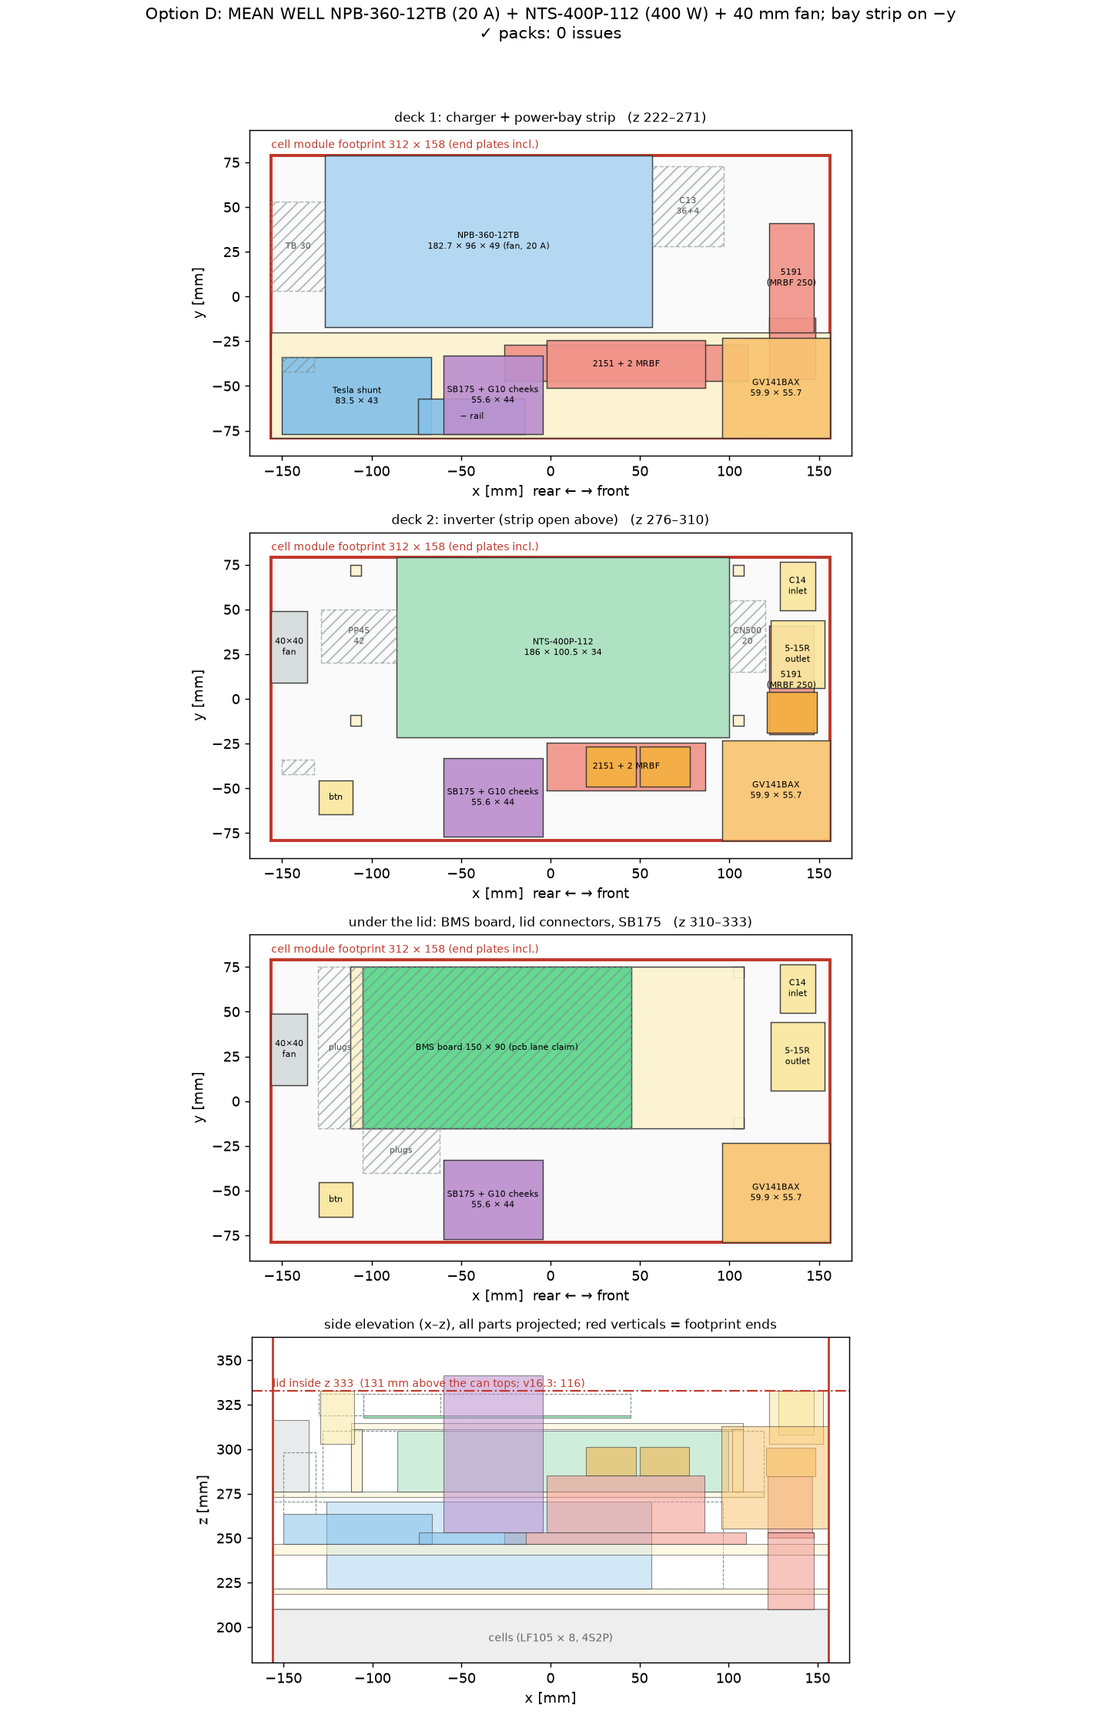
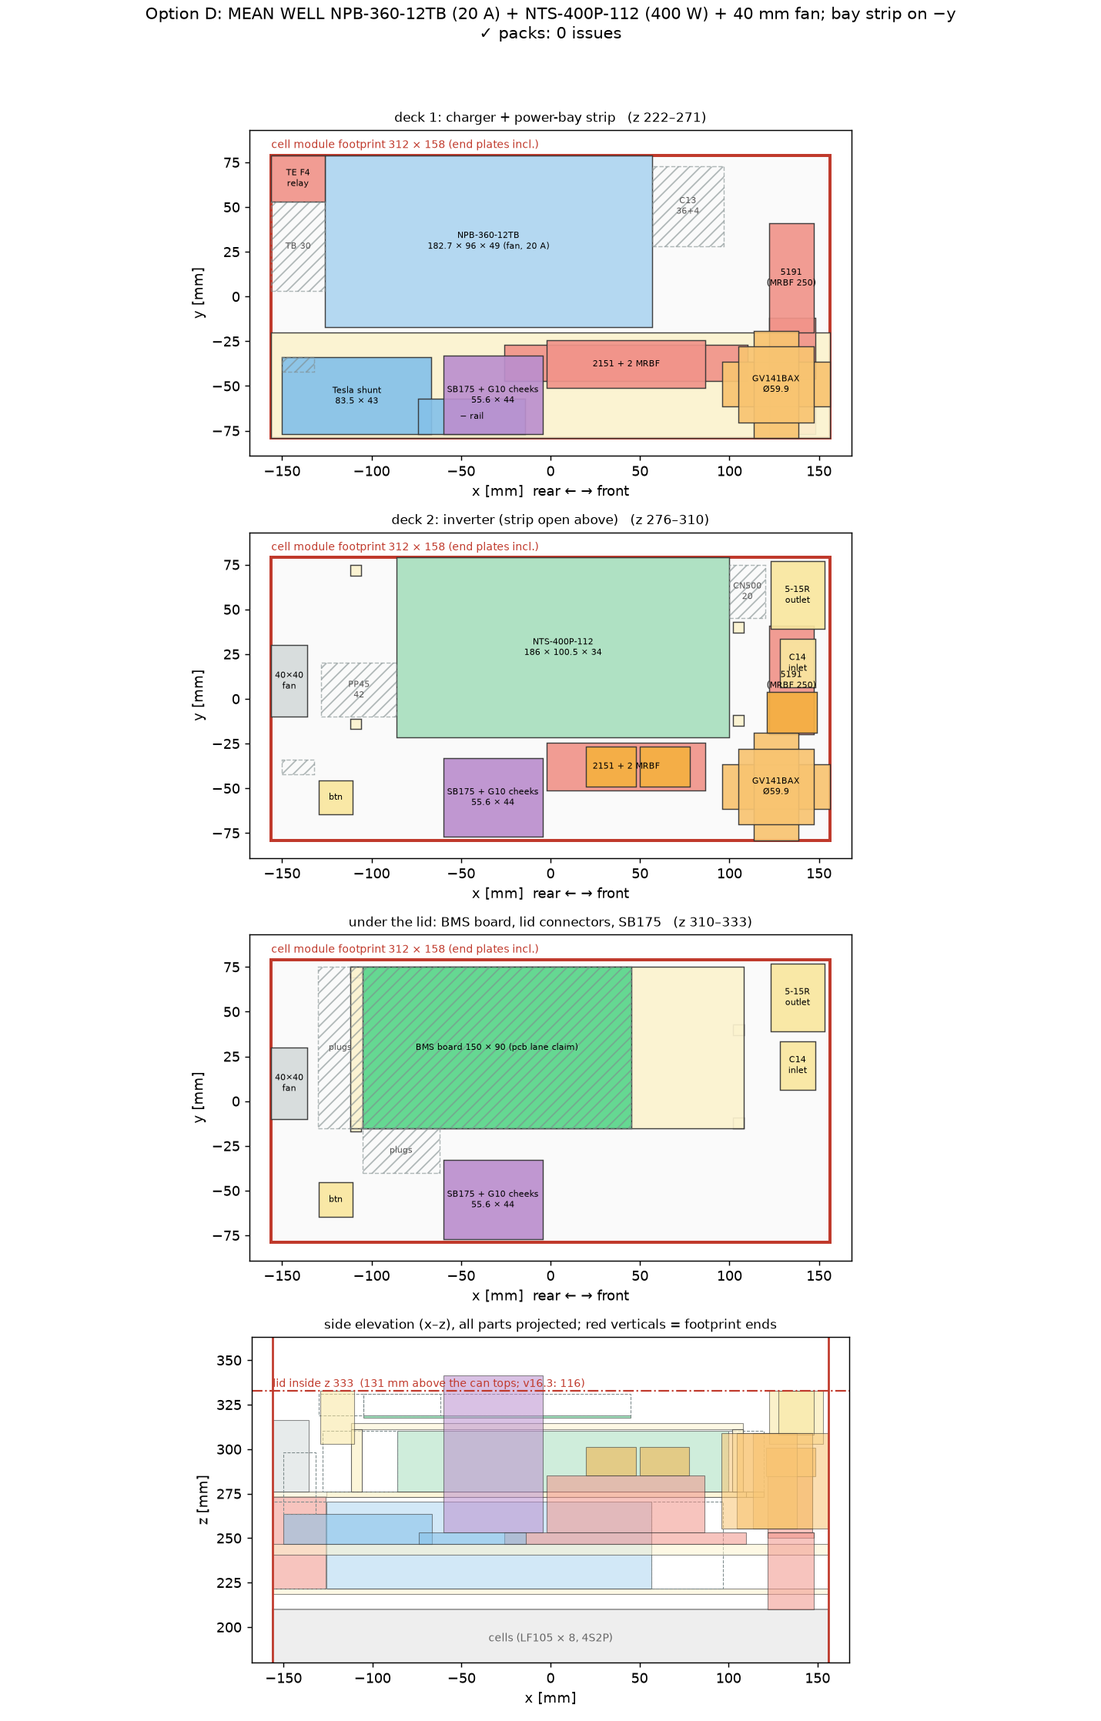
main-battery: option D cooling model (cooling_D.py), charger relay TE V23134-B1052-C642, GV14/NTS dims confirmed; packing re-checked 0 issues
Claude-Session: https://claude.ai/code/session_019xZm2LfCuiMwG9xRrujpys

diff --git a/cad/analysis/converter_packing.py b/cad/analysis/converter_packing.py
@@ -158,19 +158,25 @@ def opt_D(chg=("chg_npb360", 182.7, 96.0, 49.0, "NPB-360-12TB\n182.7 × 96 × 49
     p.append(B("keep_chg_ac_c13", -126 + cl, -86 + cl, FY - 51, FY - 6, Z_D1, Z_D1 + ch, "keep", "C13\n36+4"))
     # deck 2: G10 over the charger only (the strip stays open to the lid: fuse lift-out)
     z2 = Z_D1 + ch + 2.5 + G10
-    p.append(B("g10_deck2", -156, 120, -21.5, FY, z2 - G10, z2, "g10"))
+    p.append(B("g10_deck2", -156, 110, -21.5, 53.0, z2 - G10, z2, "g10"))          # notched at the rear +y corner for the relay
+    p.append(B("g10_deck2c", 110, 120, -17.0, 53.0, z2 - G10, z2, "g10"))          # and at the front -y corner for the GV14
+    p.append(B("g10_deck2b", -126, 120, 53.0, FY, z2 - G10, z2, "g10"))
+    # charger N.O. relay: TE V23134-B1052-C642 (Mini ISO F4, bracket), 25.9 x 29.9 x 51.9, next to the charger's TB (+)
+    p.append(B("relay_chg", -156, -126.1, 53.1, FY, Z_D1, Z_D1 + 51.9, "pos", "TE F4\nrelay"))
     # inverter flat, DC end at the rear (PP45 + MEAN WELL's 10 CFM fan 5 cm from the DC face), AC (CN500) at the front
     p.append(B("inv_nts400p", -86, 100, -21.5, FY, z2, z2 + 34, "inv", "NTS-400P-112\n186 × 100.5 × 34"))
-    p.append(B("keep_inv_pp45", -128, -86, 20, 50, z2, z2 + 34, "keep", "PP45\n42"))
-    p.append(B("fan_inv_4020", -156, -136, 9, 49, z2, z2 + 40, "fan", "40×40\nfan"))
-    p.append(B("keep_inv_cn500", 100, 120, 15, 55, z2, z2 + 34, "keep", "CN500\n20"))
+    # NTS-400P drawing (SPEC 2026-03-26 p.6): TB1 (PP45) near one long edge of the DC end, CN500 near the OTHER long edge
+    # of the AC end; turned end-for-end vs v16 (TB1 was +y), so TB1 faces the strip (-y) and CN500 is at +y.
+    p.append(B("keep_inv_pp45", -128, -86, -10, 20, z2, z2 + 34, "keep", "PP45\n42"))
+    p.append(B("fan_inv_4020", -156, -136, -10, 30, z2, z2 + 40, "fan", "40×40\nfan"))
+    p.append(B("keep_inv_cn500", 100, 120, 45, 75, z2, z2 + 34, "keep", "CN500\n20"))
     # separate BMS board, flat over the inverter on 6 mm standoffs, parts <= 10 mm
     # pcb lane space claim 2026-11-27 (spec/requests/pcb-bms-space-claim.md): 150 x 90, top <= 12 mm incl. mated plugs,
     # 25 mm right-angle plug room beyond -x, and beyond -y for x -105..-62. Carried by a G10 .125 bridge over the inverter
     # (no holes in the NTS-400P), the bridge on 4 posts standing on deck 2 beyond the inverter's ends.
     zr = z2 + 34 + 1.0
     p.append(B("g10_bms_bridge", -112, 108, -15, 75, zr, zr + G10, "g10", None))
-    for i, (x, y) in enumerate(((-109, -12), (-109, 72), (105, -12), (105, 72))):   # M3 standoffs at the bridge corners
+    for i, (x, y) in enumerate(((-109, -14), (-109, 72), (105, -12), (105, 40))):   # M3 standoffs at the bridge corners
         p.append(B(f"bms_post_{i}", x - 3, x + 3, y - 3, y + 3, z2, zr, "g10", None))
     zb = zr + G10 + 3.0
     p.append(B("bms_board", -105, 45, -15, 75, zb, zb + 1.6, "bms", "BMS board 150 × 90 (pcb lane claim)"))
@@ -180,12 +186,16 @@ def opt_D(chg=("chg_npb360", 182.7, 96.0, 49.0, "NPB-360-12TB\n182.7 × 96 × 49
     # power bay strip (y -79 .. -20)
     p += bay_strip(-20.0, zp1, 156, lid)
     # GV14 (body 59.9 x 55.7, flange 72.5) and the 5191 on the + riser in the front corner
-    p.append(B("ct_gv14", 96.1, 156, -79, -23.3, zp1 + 2, zp1 + 59.9, "ct", "GV141BAX\n59.9 × 55.7"))
+    # GV141BAX (Sensata GV14 datasheet, upright drawing): round body dia 59.9, 55.7 to the stud seat, flange 80.5 x 68.3
+    # holes at the (now top) end, turned diagonal so it stays inside the body's square. Inverted: studs down into the plane.
+    cx, cy, r = 126.0, -49.05, 29.95
+    for i, (a, b) in enumerate(((r, 12.4), (12.4, r), (21.2, 21.2))):
+        p.append(B(f"ct_gv14_{i}", cx - a, cx + a, cy - b, cy + b, zp1 + 2, zp1 + 55.7, "ct", "GV141BAX\nØ59.9" if i == 0 else None))
     p.append(B("pos_riser", 122, 148, -77, -46, Z_BB, zp1, "pos", None))          # + collector Z-tab (cells 7-8), as C1
     p.append(B("pos_inbar", 122, 148, -46, -12, zp1 - 3.175, zp1, "pos", None))    # riser flange -> 5191 tab (under the GV14)
     p.append(B("bs5191", 122, 147, -20, 40.9, zp1, zp1 + 31.5, "pos", "5191\n(MRBF 250)"))
     p.append(B("bs5191_fuse", 121, 148.8, -19, 4, zp1 + 31.5, zp1 + 47.8, "fuse", None))
-    p += lid_conns(lid, (138, 63), (138, 25), (-120, -55))
+    p += lid_conns(lid, (138, 20), (138, 58), (-120, -55))
     return dict(title=title or "Option D: MEAN WELL NPB-360-12TB (20 A) + NTS-400P-112 (400 W) + 40 mm fan; bay strip on −y",
                 parts=p, lid_in=lid,
                 levels=[("deck 1: charger + power-bay strip", Z_D1, Z_D1 + ch), ("deck 2: inverter (strip open above)", z2, z2 + 34),
@@ -193,8 +203,8 @@ def opt_D(chg=("chg_npb360", 182.7, 96.0, 49.0, "NPB-360-12TB\n182.7 × 96 × 49
                 allow=[("g10_", "g10_"), ("g10_bayplate", "shunt"), ("g10_bayplate", "rail_"), ("rail_neg", "shunt"), ("rail_neg", "sb175"),
                        ("rail_pos", "sb175"), ("rail_pos", "bs2151"), ("g10_deck1", "pos_riser"), ("g10_bayplate", "pos_riser"),
                        ("keep_chg", "chg_"), ("keep_inv", "inv_"), ("bms_board", "keep_bms"), ("bs2151_fuse", "bs2151"), ("bs5191_fuse", "bs5191"),
-                       ("keep_inv_pp45", "fan_"), ("rail_pos", "ct_"), ("g10_bayplate", "ct_"), ("pos_riser", "bs5191"), ("ct_", "bs5191"),
-                       ("sb175", "lid_"), ("g10_deck1", "keep_"), ("g10_deck2", "keep_inv"), ("bms_post", "g10_deck2"), ("bms_post", "g10_bms"), ("g10_bms_bridge", "keep_"), ("pos_inbar", "pos_riser"), ("pos_inbar", "bs5191"),
+                       ("keep_inv_pp45", "fan_"), ("rail_pos", "ct_"), ("g10_bayplate", "ct_"), ("pos_riser", "bs5191"), ("ct_", "bs5191"), ("ct_gv14", "ct_gv14"),
+                       ("sb175", "lid_"), ("g10_deck1", "keep_"), ("g10_deck2", "keep_inv"), ("bms_post", "g10_deck2"), ("bms_post", "g10_bms"), ("g10_bms_bridge", "keep_"), ("pos_inbar", "pos_riser"), ("relay_chg", "keep_chg_dc"), ("relay_chg", "g10_deck1"), ("pos_inbar", "bs5191"),
                        ("pos_inbar", "ct_"), ("pos_riser", "ct_"), ("rail_pos", "pos_inbar"), ("g10_bayplate", "pos_inbar"), ("g10_bayplate", "bs5191")])
 
 def opt_B():

diff --git a/cad/analysis/cooling_D.py b/cad/analysis/cooling_D.py
@@ -1,0 +1,83 @@
+"""Option D cooling check (2026-11-27): no pack fan; MEAN WELL's 40 mm fan at the rear wall blows into the box onto the
+inverter's DC end (its rated forced-air condition), the NPB-360 has its own internal fan.
+
+Network (pressures relative to ambient; p_b = box overpressure):
+  ambient -> rear-plate holes in front of the 40 mm fan -> fan -> box
+  box -> front plate holes + LED board / diffuser holes -> ambient
+  box -> the rest of the rear hole grid -> ambient        (the fan's own exhaust can leave next to it)
+Two bounds on the air that carries heat out:
+  mixed:       all fan flow leaves at the box air temperature  -> dT = P / (rho c q_fan + UA)
+  front-only:  only the share leaving through the front counts  -> dT = P / (rho c q_front + UA)   (v16-style pessimism)
+Same orifice method and constants as cooling_v16.py. Run: ~/.venvs/cad/bin/python cad/analysis/cooling_D.py
+"""
+import math
+
+RHO, CP = 1.2, 1005.0
+CD = 0.78                                   # short-tube orifice (cooling_v16)
+A_HOLE = math.pi * 4.8 ** 2 / 4 * 1e-6      # rear and front plate holes, dia 4.8
+A_AIR = math.pi * 6.0 ** 2 / 4 * 1e-6       # LED board + diffuser holes, dia 6
+# Sunon MF40201VX-1000U-G99, 12 V: 10.8 CFM free air, 0.29 inH2O (72 Pa) shut-off, 27.5 dBA, 1.11 W
+# (Digi-Key / distributor listings 2026-11-27; Sunon's own sheet not found -> UNCONFIRMED). Curve shape as cooling_v16.
+Q0, P0 = 10.8 * 0.0283168 / 60, 0.29 * 249.089
+def fan_dp(q):
+    return P0 * max(0.0, 1 - (q / Q0) ** 1.4)
+def R(n, a, K):                              # quadratic resistance of n parallel holes of area a
+    return K * RHO / 2 / (n * a) ** 2
+
+# ---- geometry (option D box, UNCONFIRMED until tower17): inside ~314 x 168 x 333
+N_REAR = 636            # v16: 703 holes over 186.8 inside -> 19 of 21 columns at 168 inside
+N_FAN = 21              # rear holes inside the 40 mm fan circle (pitch 7.78)
+N_FRONT = 223           # v16: 244 open front holes on a 175-wide LED board -> scaled to a ~160-wide board
+
+R_fan_in = R(N_FAN, A_HOLE, 1 / CD ** 2)
+R_front = R(N_FRONT, A_HOLE, 1 / CD ** 2) + R(N_FRONT, A_AIR, 1 / CD ** 2) + 1.5 * RHO / 2 / (8e-3 * 0.160) ** 2   # + the 8 mm gap behind the board
+R_rear = R(N_REAR - N_FAN, A_HOLE, 1 / CD ** 2)
+
+def solve(rear_open=True):
+    lo, hi = 0.0, P0
+    for _ in range(200):
+        pb = (lo + hi) / 2
+        q_out = math.sqrt(pb / R_front) + (math.sqrt(pb / R_rear) if rear_open else 0.0)
+        # fan must supply q_out against pb + its inlet loss
+        if fan_dp(q_out) - R_fan_in * q_out ** 2 > pb:
+            lo = pb
+        else:
+            hi = pb
+    qf = math.sqrt(pb / R_front); qr = math.sqrt(pb / R_rear) if rear_open else 0.0
+    return pb, qf + qr, qf, qr
+
+# ---- heat, UPS case (inverting at 400 W while charging at 20 A)
+HEAT = {
+    "NTS-400P-112, 400 W out, eta 89 % (-112 column, NTS-400P-SPEC 2026-03-26; v16 used 91 %, the -212 value)": 400 * (1 / 0.89 - 1),
+    "NPB-360-12TB, 20 A x 14.2 V, eta 88.5 % (TB, NPB-360-SPEC 2026-07-06)": 20 * 14.2 * (1 / 0.885 - 1),
+    "GV141BAX coil hold 2.8 W": 2.8,
+    "BMS board (estimate)": 2.0,
+    "Tesla shunt module (estimate)": 0.25,
+    "40 mm fan 1.11 W": 1.11,
+    "Charger relay coil (estimate, TBD part)": 1.5,
+    "Power path at 40 A (cooling_v16 scaling)": 40 ** 2 * 400e-6,
+}
+P = sum(HEAT.values())
+U = 1 / (1 / 9.5 + 1 / 7.0)                                   # W/m2K (v14 section 11)
+A_ENC = 2 * (0.322 * 0.174 + 0.322 * 0.345 + 0.174 * 0.345)   # outer box ~322 x 174 x 345 mm
+UA = U * A_ENC
+
+if __name__ == "__main__":
+    print(f"Heat P = {P:.1f} W (UPS case); enclosure {A_ENC:.3f} m2, UA {UA:.2f} W/K; sealed box dT = {P / UA:.1f} K")
+    for k, v in HEAT.items():
+        print(f"  {v:6.2f} W  {k}")
+    print(f"Inverter alone at 300 W: {300 * (1 / 0.89 - 1):.1f} W loss -> P = {P - 400 * (1 / 0.89 - 1) + 300 * (1 / 0.89 - 1):.1f} W")
+    for name, ro in (("full rear grid (as v16, the look Chris likes)", True), ("rear holes only in front of the fan", False)):
+        pb, q, qf, qr = solve(ro)
+        print(f"\n{name}: box +{pb:.2f} Pa; fan {q * 3600:.1f} m3/h = {q / Q0 * 100:.0f} % of free air "
+              f"({q * 60 / 0.0283168:.1f} CFM vs MEAN WELL's 10 CFM condition); out front {qf * 3600:.1f}, out rear {qr * 3600:.1f} m3/h")
+        print(f"  dT mixed {P / (RHO * CP * q + UA):.1f} K | front-only {P / (RHO * CP * qf + UA):.1f} K")
+        for p_ in (P - 400 * (1 / 0.89 - 1) + 300 * (1 / 0.89 - 1), P - HEAT[list(HEAT)[1]] + 10 * 14.2 * (1 / 0.885 - 1)):
+            pass
+    pb, q, qf, qr = solve(True)
+    P300 = P - 400 * (1 / 0.89 - 1) + 300 * (1 / 0.89 - 1)
+    P_cap = P - HEAT[list(HEAT)[1]] + 10 * 14.2 * (1 / 0.885 - 1)
+    print(f"\nfull grid, inverter 300 W: dT mixed {P300 / (RHO * CP * q + UA):.1f} | front-only {P300 / (RHO * CP * qf + UA):.1f} K")
+    print(f"full grid, 400 W + charge capped at 10 A: dT mixed {P_cap / (RHO * CP * q + UA):.1f} | front-only {P_cap / (RHO * CP * qf + UA):.1f} K")
+    print(f"charging only (20 A, inverter off): dT mixed {(P - HEAT[list(HEAT)[0]]) / (RHO * CP * q + UA):.1f} | front-only {(P - HEAT[list(HEAT)[0]]) / (RHO * CP * qf + UA):.1f} K")
+    print(f"inverting only (400 W, charger off): dT mixed {(P - HEAT[list(HEAT)[1]] - 1.5) / (RHO * CP * q + UA):.1f} | front-only {(P - HEAT[list(HEAT)[1]] - 1.5) / (RHO * CP * qf + UA):.1f} K")

diff --git a/docs/converters.md b/docs/converters.md
@@ -134,25 +134,59 @@ So the strip is **≥ 59 mm**, which leaves **≤ 96 mm of width for the convert
 - **Branch fuses (R9):** inverter input at 400 W / 11 V / 0.89 ≈ 41 A → **MRBF 50 A kept**. Charger 20 A → **MRBF 30 A kept**.
 - **Undervoltage ladder:** NTS-400P cuts out at 10.0 ± 0.3 V (2.5 V/cell) and alarms at 11 V. The ladder (2.90 firmware → 2.80 BQ UV → 2.75 inverter) stays enforced by firmware and the BQ, as today. The inverter is unchanged.
 - **Standby:** unchanged, since the inverter is the same; the NPB-360 leaks < 1 mA from the battery. **13.8 days ON-idle** as today.
-- **Heat, UPS case** (inverting and charging at once):
+- **Heat, UPS case** (inverting at 400 W while charging at 20 A), from `cad/analysis/cooling_D.py`:
 
   | Source | Loss |
   |---|---|
-  | Inverter at 400 W (η 89 %) | 49 W |
-  | NPB-360 at 20 A × 14.2 V (η 88.5 %) | 37 W |
-  | GV14 coil | 2.8 W |
-  | BMS board | 2 W |
-  | **Total** | **≈ 91 W** (77 W today) |
+  | Inverter at 400 W (η **89 %**, the -112 column; cooling_v16 used 91 %, the -212 value) | 49.4 W |
+  | NPB-360 at 20 A × 14.2 V (η 88.5 %) | 36.9 W |
+  | GV14 coil, BMS, shunt, 40 mm fan, charger-relay coil, power path | 8.3 W |
+  | **Total** | **94.6 W** (77 W in v16) |
 
-  At 300 W inverter output the total is ≈ 79 W.
-- **Air path:**
-  - MEAN WELL's 10 CFM fan blows rear → front along the inverter, which **meets the inverter's rated condition**: 100 % load to 40 ℃.
-  - The NPB-360's own fan (switched on at 50 ℃ internal) cools the charger.
-  - ⚠ **Box air rise with only the converter fans:** about 10 K if both fans move air through the box (≈ 27 m³/h), up to about 24 K if only the 40 mm fan does (≈ 11 m³/h effective). The NPB-360 fan's flow is not published ⚠.
-  - Re-run `cooling_v16.py` in the CAD phase. If the rise is above 15 K, either:
-    - cap the charge current at 10 A while the inverter runs above 300 W (firmware, no parts); or
-    - add a second 40 mm fan at the rear wall over the charger's DC end (space exists at x −156…−136, y −17…+5).
+- **Fan (2026-11-27 model).** The Sunon MF40201VX-1000U-G99 is 10.8 CFM free air and 72 Pa shut-off ⚠ (distributor data; Sunon's own sheet not found). MEAN WELL's drawing shows a "10 CFM FAN" blowing **into** the DC end from 5 cm away, so intake is the right direction.
+
+  | Fan inlet in the rear plate | Fan flow | Box air rise, UPS case (mixed / front-only bound) |
+  |---|---|---|
+  | 21 standard Ø4.8 grid holes (as drawn) | **5.4 CFM** ✗ half of MEAN WELL's condition | 19.3 / 44.2 K |
+  | **Same 21 positions at Ø6.5** (grid look kept, no part) | 7.7 CFM | 15.2 / 41.6 K |
+  | Ø38 cutout + 40 mm wire guard (+1 part) | 8.4 CFM | 14.3 / 40.9 K |
+  | Ø38 cutout, rear grid blanked behind except the fan (+1 sheet) | 7.8 CFM | 15.1 / 15.1 K |
+  | Two 40 mm fans + blanking sheet | 2 × 6.5 CFM | 10.2 / 10.2 K (no room for a 2nd fan at the rear without a re-layout) |
+
+  - "Mixed" assumes all the fan's air leaves at box temperature.
+  - "Front-only" counts only the air that leaves through the front. With the full rear grid, most of the fan's air leaks back out of the rear holes beside it, which is the same short circuit as v16.
+- **Single loads** (Ø6.5 fan holes, mixed): charging only ≈ 7 K; inverting at 400 W only ≈ 9 K. **Only the UPS case (both at full power) is marginal.**
+- **Decision needed:**
+  - **(a) No part (recommended):** Ø6.5 holes in front of the fan, plus a firmware thermostat. The NPB-360 can't be throttled, only switched, so above a set box-air temperature (e.g. 45 ℃) while inverting the BMS opens the charger relay, and closes it again when the air cools.
+  - **(b)** Blanking sheet behind the rear grid (cooling.md option B): front-only = mixed = 15 K, +1 SCS part.
+  - **(c)** Re-layout for a second fan.
+
+  The inverter bench test (owner-req §7) checks whichever is picked.
 - **The NF-A14 pack fan is no longer needed for the converters,** and it doesn't fit under the new rule: 140 mm is taller than the deck.
+
+## 4a. Charger relay (D39 follow-up, 2026-11-27)
+| Candidate | Contacts at 14 V | Coil | Mounting | Verdict |
+|---|---|---|---|---|
+| **TE V23134-B1052-C642** (Power Relay F4, Mini ISO, 1 form A, **bracket**; TE 3-1393303-4) | 40 A continuous at 85 ℃ (60 A at 23 ℃); make 120 A; **break 60 A**; 2 × 10⁵ ops at 40 A 14 VDC | 12 V, 90 Ω, **1.6 W** (2.4 W at 14.6 V), operate 7.2 V | Bracket, one screw; 6.3 mm QC tabs; 25.9 × 29.9 × 51.9 mm, 35 g | **✓ picked.** Automotive part rated for this exact voltage. CAD 21.21, 170 in stock (Newark via [Octopart](https://octopart.com/search?q=V23134-B1052-C642), 2026-11-27) |
+| TE T9AP1D52-12 (T9A, flanged, QC) | NO 20 A at 28 VDC resistive | 12 V 1 W; **max coil 110 % = 13.2 V** < 14.6 V pack | flange | ✗ coil over-voltage at a full pack; 20 A is the bare limit |
+| Panasonic CB1 and other PCB automotive relays | 40 A | — | PCB | ✗ would put 20 A through the BMS board |
+| Small DC contactor (Gigavac, TE EV) | ≥ 100 A | 1.7–8 W | studs | ✗ oversized, costlier |
+
+**Placement.** The relay sits in deck 1's rear +y corner (x −156…−126, y 53…79) next to the charger's + terminal, with deck 2 notched above it. Re-checked: 0 issues.
+
+**Rules.**
+- The relay closes only after the GV14 is closed and AC is present.
+- A flyback diode across the coil goes on the BMS board.
+- The QC terminals are + potential: keep ≥ 10 mm to the charger's − terminal, or boot them ⚠ (CAD).
+
+## 4b. Dimensions confirmed this pass (2026-11-27)
+| Part | Before | Now | Source |
+|---|---|---|---|
+| GV141BAX | 59.9 × 55.7 box, flange 72.5 ⚠ | **Round body Ø59.9; 55.7 base to stud seat; 72.5 overall with studs; flange 80.5 long, holes 68.3 apart (M5/#10); stud pitch 26.7 (M8 × 1.25, 10 N·m max); 0.44 kg.** The flange turns diagonal in the inverted mount so it stays inside the Ø59.9 square | Sensata GV14 Series datasheet, upright dimensions (RS copy) ✓ |
+| NTS-400P TB1 / CN500 | TB1 at +y (v16); CN500 position unknown | TB1 near one long edge of the DC end; **CN500 near the opposite long edge of the AC end**; the "10 CFM fan" is drawn blowing into the DC end, 5 cm away. Turned end-for-end in option D, so TB1 faces the strip (−y) and CN500 is at +y, beside the lid outlet | NTS-400P-SPEC 2026-03-26 p.6 ✓ |
+| Blue Sea 5191 | 60.9 | 61.9 long (Eaton CF bar drawing, v16 note); 1 mm, packing unaffected | v16-decisions notes ✓ |
+| SB175 busbar contact depth (89.8 below the mating face) | ⚠ | **Still ⚠.** The SB175 datasheet points to a separate "busbar contact drawing on website", which Anderson's site search did not return. The datasheet confirms 180BBS: 1/4-20 stud, lock nut 110G56, **200 A wire-to-busbar** (≥ 175 ✓) | Anderson SB175 datasheet (RS copy) |
+| NPB-360 C14 position | ⚠ | Inlet on the right half of the input face (viewed from outside), I/O switch on the left; no dimensions on MEAN WELL's drawing ⚠ | NPB-360-SPEC 2026-07-06 p.5 |
 
 ## 5. Path taken (this session)
 1. **The rule.** The footprint is fixed (312 × 158) and height is free. So the question became which converters, packed with the bay, fit that plan.
@@ -222,9 +256,9 @@ So the strip is **≥ 59 mm**, which leaves **≤ 96 mm of width for the convert
 
 ## 10. Open items
 - Chris: Q1–Q4 (§6).
-- ⚠ NPB-360 fan flow and direction; box air rise without the NF-A14 (re-run `cooling_v16.py`).
+- Chris: cooling (a) firmware thermostat + Ø6.5 fan holes / (b) blanking sheet / (c) second fan (§4). ⚠ NPB-360 internal fan flow and direction unpublished.
 - ⚠ BMS board size and connector edge (pcb lane, scope confirmed in owner-requirements §5).
-- ⚠ Charger relay: catalog part, chassis-mounted (not on the PCB), ≥ 20 A DC continuous, rated for closing onto the NPB-360 output capacitors; firmware closes it only after the GV14 is closed.
+- ✓ Charger relay: TE V23134-B1052-C642 (§4a).
 - ⚠ Inside width: pack copper on the strip at y −77 needs 7 mm to the wall (inside ≥ 168) or rails moved 5 mm inboard.
-- ⚠ True outlines: GV14, 5191, SB175, NTS CN500/TB1 positions, NPB-360 C14 position.
+- ✓ GV14 and NTS connector positions (§4b). ⚠ SB175 busbar-contact depth; NPB-360 C14 exact position.
 - After the pick: `tower17.py` + bay module, interference/clearance/assembly checks, fast renders, BOM and SCS total.

diff --git a/spec/interface.md b/spec/interface.md
@@ -11,16 +11,16 @@ Single source of truth for numbers that more than one lane uses. Only `main-batt
 | DC out | SB175 on the lid, **175 A** continuous; hardware 500 A / 30 s, firmware-limited to EVE rev E Tables 12–13 | D37 |
 | Main fuse | MRBF 250 A in Blue Sea 5191 | power-train.md |
 | Branch fuses | MRBF on Blue Sea 2151: inverter **50 A**, charger **30 A** | converters.md §4 |
-| Contactor | Gigavac GV141BAX (GV14), coil 12 V, 3.9 A pick-up ⚠, 0.23 A hold (2.8 W) | contactor-mounting.md |
+| Contactor | Gigavac GV141BAX (GV14): round body Ø59.9, 55.7 to the stud seat, M8 studs 26.7 apart; coil 12 V, 3.9 A pick-up ⚠, 0.23 A hold (2.8 W) | Sensata GV14 datasheet; converters.md §4b |
 | Shunt | Tesla 1016792-00-C, low side; board ground at node A | tesla-shunt.md |
 
 ## 2. Converters (D39, 2026-11-27)
 | Item | Value | Ref |
 |---|---|---|
 | Charger | MEAN WELL **NPB-360-12TB**: 20 A, CV set to 14.2 V by VR, 2-stage by DIP. **No remote, no CAN** | converters.md |
-| Charger stop | **Normally-open DC relay in the charger + lead**, coil driven by the BMS; closed only after the GV14 is closed. Part ⚠ TBD (catalog, chassis-mounted, ≥ 20 A DC, rated for closing onto the charger's output capacitors) | D39 |
+| Charger stop | **TE V23134-B1052-C642** N.O. relay (Mini ISO F4, bracket, 12 V 90 Ω coil, 1.6–2.4 W, operate 7.2 V) in the charger + lead, next to the charger TB. BMS drives the coil (low side + flyback diode); closes only after the GV14 is closed and AC is present; opens on cold (< 2 ℃), full, fault, or box air over the thermostat limit (cooling decision pending) | converters.md §4a |
 | Inverter | MEAN WELL **NTS-400P-112**: 400 W, 120 V 60 Hz, power-saving DIP SW4 on; remote off = dry contact on CN301 (relay or PhotoMOS) | NTS-400P-SPEC 2026-03-26 |
-| Inverter fan | 40 × 40 × 20, 10 CFM, on the inverter's own CN100 (not a BMS output) | cooling.md, converters.md |
+| Inverter fan | Sunon MF40201VX-1000U-G99, 40 × 40 × 20, 10.8 CFM, intake at the rear wall 5 cm from the DC end, on the inverter's own CN100 (not a BMS output) | converters.md §4 |
 | Pack fan | **none** (NF-A14 dropped) ⚠ pending the cooling re-run | converters.md §4 |
 
 ## 3. Envelope
